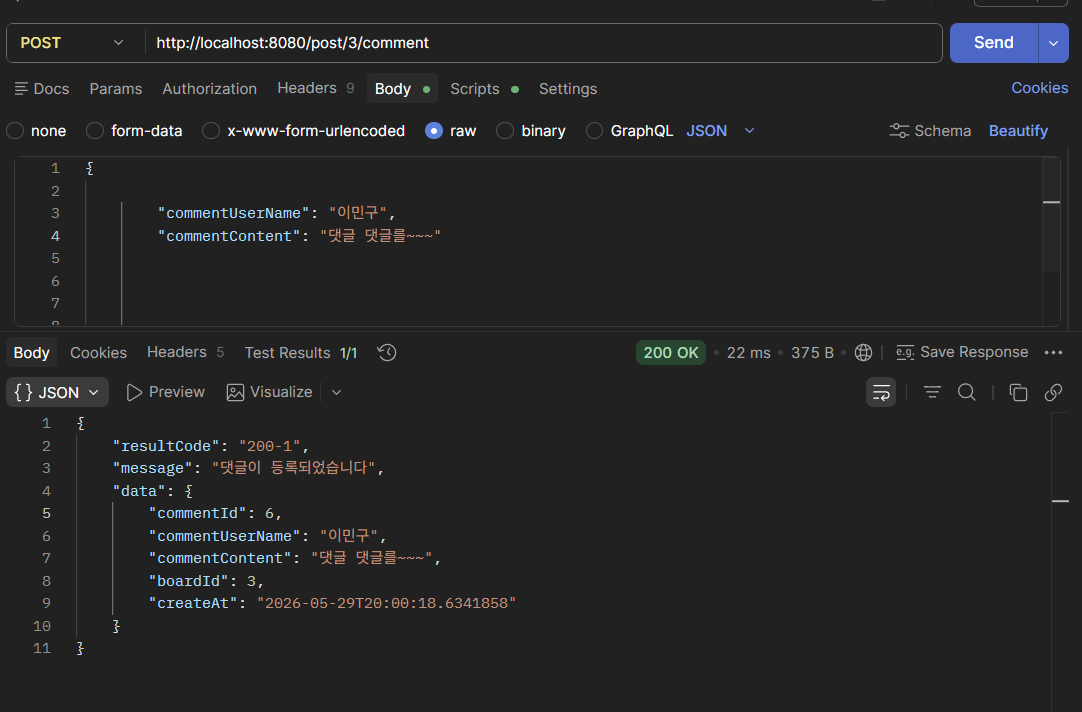
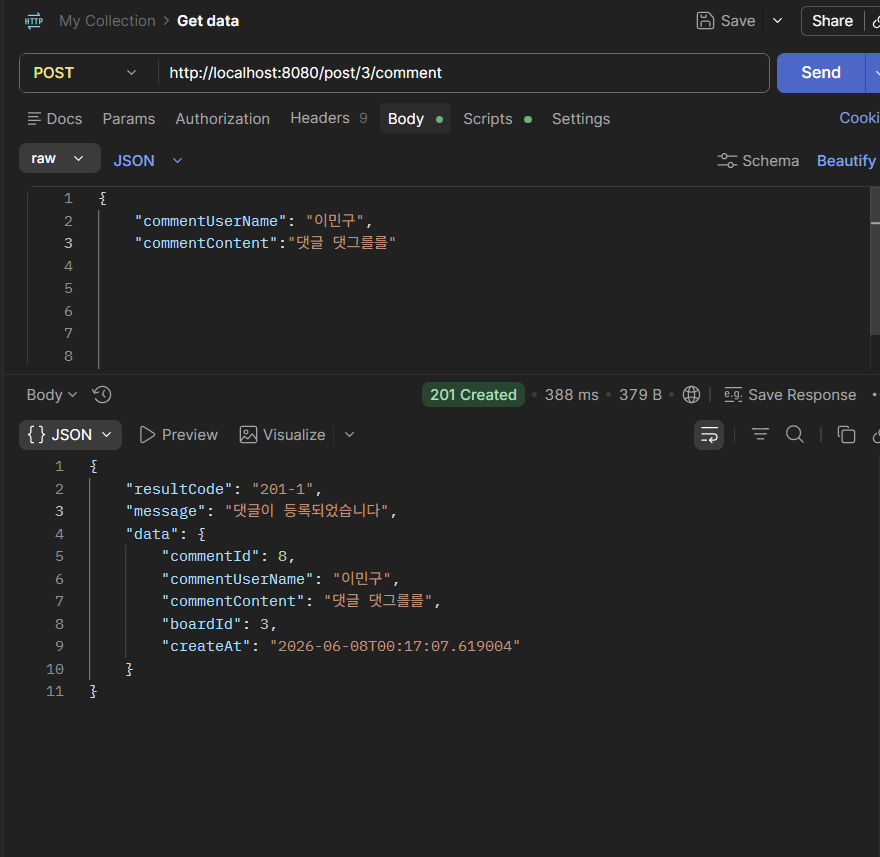
Refactor/200 -> 201 created 수정

diff --git a/springdb/src/main/java/com/board/springdb/comment/controller/CommentController.java b/springdb/src/main/java/com/board/springdb/comment/controller/CommentController.java
@@ -20,7 +20,7 @@ public class CommentController {
     @PostMapping
     public ResponseEntity<RsData<CommentResponse>> newComment(@RequestBody CommentRequest commentRequest, @PathVariable Long id) {
         CommentResponse commentResponse = commentService.newComment(id, commentRequest);
-        RsData<CommentResponse> rsData = new RsData<>("200-1", "댓글이 등록되었습니다", commentResponse);
+        RsData<CommentResponse> rsData = new RsData<>("201-1", "댓글이 등록되었습니다", commentResponse);
         return ResponseEntity.status(rsData.statusCode()).body(rsData);
     }
 
